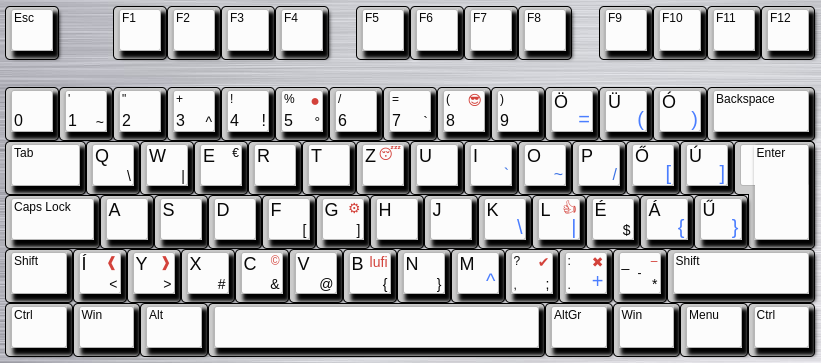
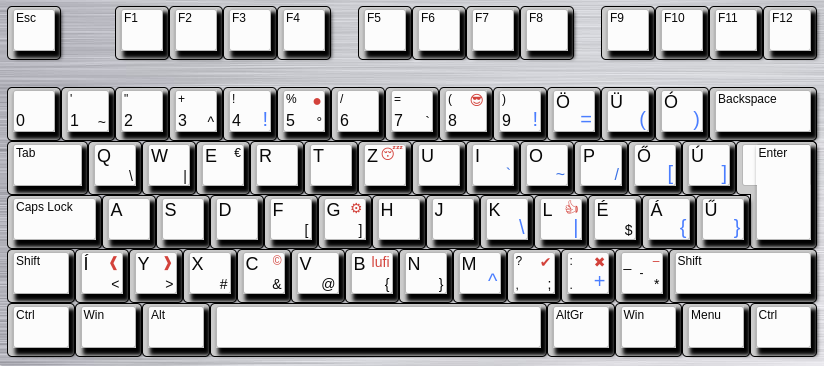
added exclam to 9

diff --git a/README.md b/README.md
@@ -16,7 +16,7 @@ Meg még pár apróság:
 
 ![kiosztás](misc/screenshot.png)
 
-[kiosztás](<http://www.keyboard-layout-editor.com/?fbclid=IwAR3YtRVJ-5VjJWcKMMDVdrcav5dA4Sc5tyev1wvMugAMIVX9bjsemJg66UQ##@_background_name=Aluminium%20brushed&style=background-image%2F:%20url('%2F%2Fbg%2F%2Fmetal%2F%2Faluminum%2F_texture1642.jpg')%2F%3B&$$hashKey=07I%3B&css=.keylabels%20%7B%0A%20%20%20%20box-shadow%2F:%204px%205px%204px%202px%20black%2F%3B%0A%7D%0A%23keyboard-bg%20div%20%7B%0A%20%20%20%20border%2F:none%2F%3B%0A%7D%3B&@=Esc&_x:1%3B&=F1&=F2&=F3&=F4&_x:0.5%3B&=F5&=F6&=F7&=F8&_x:0.5%3B&=F9&=F10&=F11&=F12&_x:0.25%3B&=PrtSc&=Scroll%20Lock&=Pause%0ABreak%3B&@_y:0.5&f2:5%3B&=%0A0&_fa@:0&:5&:5&:4%3B%3B&='%0A1%0A%0A~&=%22%0A2&=+%0A3%0A%0A%5E&_f2:5%3B&=!%0A4%0A%0A!&_t=%23000000%0A%0A%23b82828&sm=cherry&fa@:0&:5&:5&:4%3B%3B&=%25%0A5%0A%E2%97%8F%0A%C2%B0&_t=%23000000%3B&=%2F%2F%0A6&=%2F=%0A7%0A%0A%60&_t=%23000000%0A%0A%23b82828&fa@:0&:5&:4%3B%3B&=(%0A8%0A%F0%9F%98%8E&_t=%23000000%3B&=)%0A9&_t=%23000000%0A%0A%0A%230066ff&fa@:6&:5&:4&:7%3B%3B&=%C3%96%0A%0A%0A%2F=&=%C3%9C%0A%0A%0A(&=%C3%93%0A%0A%0A)&_t=%23000000&f:3&w:2%3B&=Backspace&_x:0.25&f:3%3B&=Insert&_f:3%3B&=Home&_f:3%3B&=PgUp&_x:0.25&f:3%3B&=Num%20Lock&_a:7&fa@:7%3B%3B&=%2F%2F&=*&=-%3B&@_a:4&f:3&w:1.5%3B&=Tab&_fa@:6&:0&:0&:4%3B%3B&=Q%0A%0A%0A%5C&=W%0A%0A%0A%7C&=E%0A%0A%E2%82%AC&=R&=T&_t=%23000000%0A%0A%23b82828&fa@:6&:0&:4%3B%3B&=Z%0A%0A%F0%9F%98%B4&_t=%23000000%3B&=U&_t=%23000000%0A%0A%0A%23045dcc&fa@:6&:0&:4&:5%3B%3B&=I%0A%0A%0A%60&=O%0A%0A%0A~&=P%0A%0A%0A%2F%2F&_t=%23000000%0A%0A%0A%230066ff&fa@:6&:0&:4&:7%3B%3B&=%C5%90%0A%0A%0A%5B&=%C3%9A%0A%0A%0A%5D&_x:0.25&t=%23000000&f:3&w:1.25&h:2&w2:1.5&h2:1&x2:-0.25%3B&=Enter&_x:0.25&f:3%3B&=Delete&_f:3%3B&=End&_f:3%3B&=PgDn&_x:0.25&f:3%3B&=7%0AHome&_f:3%3B&=8%0A%E2%86%91&_f:3%3B&=9%0APgUp&_a:7&fa@:7%3B&h:2%3B&=+%3B&@_a:4&f:3&w:1.75%3B&=Caps%20Lock&_fa@:6%3B%3B&=A&=S&=D&_fa@:6&:0&:0&:4%3B%3B&=F%0A%0A%0A%5B&_t=%23000000%0A%0A%23b82828&fa@:6&:0&:4&:4%3B%3B&=G%0A%0A%E2%9A%99%0A%5D&_t=%23000000%3B&=H&=J&_t=%23000000%0A%0A%0A%230066ff&fa@:6&:0&:4&:7%3B%3B&=K%0A%0A%0A%5C&_t=%23000000%0A%0A%23b82828%0A%230066ff%3B&=L%0A%0A%F0%9F%91%8D%0A%7C&_t=%23000000&fa@:6&:0&:4&:4%3B%3B&=%C3%89%0A%0A%0A$&_t=%23000000%0A%0A%0A%230066ff&fa@:6&:0&:4&:7%3B%3B&=%C3%81%0A%0A%0A%7B&=%C5%B0%0A%0A%0A%7D&_x:4.75&t=%23000000&f:3%3B&=4%0A%E2%86%90&_f:3%3B&=5&_f:3%3B&=6%0A%E2%86%92%3B&@_f:3&w:1.25%3B&=Shift&_t=%23000000%0A%0A%23b82828&fa@:6&:0&:4&:4%3B%3B&=%C3%8D%0A%0A%E2%9D%B0%0A%3C&=Y%0A%0A%E2%9D%B1%0A%3E&_t=%23000000%3B&=X%0A%0A%0A%23&_t=%23000000%0A%0A%23b82828&fa@:6&:0&:0&:4%3B%3B&=C%0A%0A%C2%A9%0A%2F&&_t=%23000000%3B&=V%0A%0A%0A%2F@&_t=%23000000%0A%0A%23b82828&fa@:6&:0&:4&:4%3B%3B&=B%0A%0Alufi%0A%7B&_t=%23000000%3B&=N%0A%0A%0A%7D&_t=%23000000%0A%0A%0A%230066ff&fa@:6&:0&:4&:7%3B%3B&=M%0A%0A%0A%5E&_t=%23000000%0A%0A%23b82828&fa@:0&:0&:4&:4%3B%3B&=%3F%0A,%0A%E2%9C%94%0A%2F%3B&_t=%23000000%0A%0A%23b82828%0A%230066ff&fa@:0&:0&:4&:7%3B%3B&=%2F:%0A.%0A%E2%9C%96%0A+&_t=%23000000%0A%0A%23b82828&fa@:4&:0&:0&:4%3B%3B&=%2F_%0A%0A%E2%80%93%0A*%0A%0A%0A%0A%0A%0A-&_t=%23000000&f:3&w:2.75%3B&=Shift&_x:1.25&a:7&fa@:9%3B%3B&=%E2%86%91&_x:1.25&a:4&f:3%3B&=1%0AEnd&_f:3%3B&=2%0A%E2%86%93&_f:3%3B&=3%0APgDn&_f:3&h:2%3B&=Enter%3B&@_f:3&w:1.25%3B&=Ctrl&_f:3&w:1.25%3B&=Win&_f:3&w:1.25%3B&=Alt&_a:7&w:6.25%3B&=&_a:4&f:3&w:1.25%3B&=AltGr&_f:3&w:1.25%3B&=Win&_f:3&w:1.25%3B&=Menu&_f:3&w:1.25%3B&=Ctrl&_x:0.25&a:7&f:3%3B&=%E2%86%90&_f:3%3B&=%E2%86%93&_f:3%3B&=%E2%86%92&_x:0.25&a:4&f:3&w:2%3B&=0%0AIns&_f:3%3B&=.%0ADel>) (Kék AltGr, Piros Shift+AltGr)
+[kiosztás](<http://www.keyboard-layout-editor.com/?fbclid=IwAR3YtRVJ-5VjJWcKMMDVdrcav5dA4Sc5tyev1wvMugAMIVX9bjsemJg66UQ##@_background_name=Aluminium%20brushed&style=background-image%2F:%20url('%2F%2Fbg%2F%2Fmetal%2F%2Faluminum%2F_texture1642.jpg')%2F%3B&$$hashKey=07I%3B&css=.keylabels%20%7B%0A%20%20%20%20box-shadow%2F:%204px%205px%204px%202px%20black%2F%3B%0A%7D%0A%23keyboard-bg%20div%20%7B%0A%20%20%20%20border%2F:none%2F%3B%0A%7D%3B&@=Esc&_x:1%3B&=F1&=F2&=F3&=F4&_x:0.5%3B&=F5&=F6&=F7&=F8&_x:0.5%3B&=F9&=F10&=F11&=F12&_x:0.25%3B&=PrtSc&=Scroll%20Lock&=Pause%0ABreak%3B&@_y:0.5&f2:5%3B&=%0A0&_fa@:0&:5&:5&:4%3B%3B&='%0A1%0A%0A~&=%22%0A2&=+%0A3%0A%0A%5E&_t=%23000000%0A%0A%0A%230066ff&fa@:0&:5&:5&:7%3B%3B&=!%0A4%0A%0A!&_t=%23000000%0A%0A%23b82828&sm=cherry&fa@:0&:5&:5&:4%3B%3B&=%25%0A5%0A%E2%97%8F%0A%C2%B0&_t=%23000000%3B&=%2F%2F%0A6&=%2F=%0A7%0A%0A%60&_t=%23000000%0A%0A%23b82828&fa@:0&:5&:4%3B%3B&=(%0A8%0A%F0%9F%98%8E&_t=%23000000%0A%0A%0A%230066ff&fa@:0&:5&:4&:7%3B%3B&=)%0A9%0A%0A!&_fa@:6&:5&:4&:7%3B%3B&=%C3%96%0A%0A%0A%2F=&=%C3%9C%0A%0A%0A(&=%C3%93%0A%0A%0A)&_t=%23000000&f:3&w:2%3B&=Backspace&_x:0.25&f:3%3B&=Insert&_f:3%3B&=Home&_f:3%3B&=PgUp&_x:0.25&f:3%3B&=Num%20Lock&_a:7&fa@:7%3B%3B&=%2F%2F&=*&=-%3B&@_a:4&f:3&w:1.5%3B&=Tab&_fa@:6&:0&:0&:4%3B%3B&=Q%0A%0A%0A%5C&=W%0A%0A%0A%7C&=E%0A%0A%E2%82%AC&=R&=T&_t=%23000000%0A%0A%23b82828&fa@:6&:0&:4%3B%3B&=Z%0A%0A%F0%9F%98%B4&_t=%23000000%3B&=U&_t=%23000000%0A%0A%0A%23045dcc&fa@:6&:0&:4&:5%3B%3B&=I%0A%0A%0A%60&=O%0A%0A%0A~&=P%0A%0A%0A%2F%2F&_t=%23000000%0A%0A%0A%230066ff&fa@:6&:0&:4&:7%3B%3B&=%C5%90%0A%0A%0A%5B&=%C3%9A%0A%0A%0A%5D&_x:0.25&t=%23000000&f:3&w:1.25&h:2&w2:1.5&h2:1&x2:-0.25%3B&=Enter&_x:0.25&f:3%3B&=Delete&_f:3%3B&=End&_f:3%3B&=PgDn&_x:0.25&f:3%3B&=7%0AHome&_f:3%3B&=8%0A%E2%86%91&_f:3%3B&=9%0APgUp&_a:7&fa@:7%3B&h:2%3B&=+%3B&@_a:4&f:3&w:1.75%3B&=Caps%20Lock&_fa@:6%3B%3B&=A&=S&=D&_fa@:6&:0&:0&:4%3B%3B&=F%0A%0A%0A%5B&_t=%23000000%0A%0A%23b82828&fa@:6&:0&:4&:4%3B%3B&=G%0A%0A%E2%9A%99%0A%5D&_t=%23000000%3B&=H&=J&_t=%23000000%0A%0A%0A%230066ff&fa@:6&:0&:4&:7%3B%3B&=K%0A%0A%0A%5C&_t=%23000000%0A%0A%23b82828%0A%230066ff%3B&=L%0A%0A%F0%9F%91%8D%0A%7C&_t=%23000000&fa@:6&:0&:4&:4%3B%3B&=%C3%89%0A%0A%0A$&_t=%23000000%0A%0A%0A%230066ff&fa@:6&:0&:4&:7%3B%3B&=%C3%81%0A%0A%0A%7B&=%C5%B0%0A%0A%0A%7D&_x:4.75&t=%23000000&f:3%3B&=4%0A%E2%86%90&_f:3%3B&=5&_f:3%3B&=6%0A%E2%86%92%3B&@_f:3&w:1.25%3B&=Shift&_t=%23000000%0A%0A%23b82828&fa@:6&:0&:4&:4%3B%3B&=%C3%8D%0A%0A%E2%9D%B0%0A%3C&=Y%0A%0A%E2%9D%B1%0A%3E&_t=%23000000%3B&=X%0A%0A%0A%23&_t=%23000000%0A%0A%23b82828&fa@:6&:0&:0&:4%3B%3B&=C%0A%0A%C2%A9%0A%2F&&_t=%23000000%3B&=V%0A%0A%0A%2F@&_t=%23000000%0A%0A%23b82828&fa@:6&:0&:4&:4%3B%3B&=B%0A%0Alufi%0A%7B&_t=%23000000%3B&=N%0A%0A%0A%7D&_t=%23000000%0A%0A%0A%230066ff&fa@:6&:0&:4&:7%3B%3B&=M%0A%0A%0A%5E&_t=%23000000%0A%0A%23b82828&fa@:0&:0&:4&:4%3B%3B&=%3F%0A,%0A%E2%9C%94%0A%2F%3B&_t=%23000000%0A%0A%23b82828%0A%230066ff&fa@:0&:0&:4&:7%3B%3B&=%2F:%0A.%0A%E2%9C%96%0A+&_t=%23000000%0A%0A%23b82828&fa@:4&:0&:0&:4%3B%3B&=%2F_%0A%0A%E2%80%93%0A*%0A%0A%0A%0A%0A%0A-&_t=%23000000&f:3&w:2.75%3B&=Shift&_x:1.25&a:7&fa@:9%3B%3B&=%E2%86%91&_x:1.25&a:4&f:3%3B&=1%0AEnd&_f:3%3B&=2%0A%E2%86%93&_f:3%3B&=3%0APgDn&_f:3&h:2%3B&=Enter%3B&@_f:3&w:1.25%3B&=Ctrl&_f:3&w:1.25%3B&=Win&_f:3&w:1.25%3B&=Alt&_a:7&w:6.25%3B&=&_a:4&f:3&w:1.25%3B&=AltGr&_f:3&w:1.25%3B&=Win&_f:3&w:1.25%3B&=Menu&_f:3&w:1.25%3B&=Ctrl&_x:0.25&a:7&f:3%3B&=%E2%86%90&_f:3%3B&=%E2%86%93&_f:3%3B&=%E2%86%92&_x:0.25&a:4&f:3&w:2%3B&=0%0AIns&_f:3%3B&=.%0ADel>) (Kék AltGr, Piros Shift+AltGr)
 
 A telepítő grafikus környezethez van kitalálva. A telepítéshez nem kell rendszergazda jog. Bejelentkezés után egy python program betölti a kiosztást, és figyel, ha USB billentyűzetet csatlakoztatnak, hogy újra betöltse.
 
